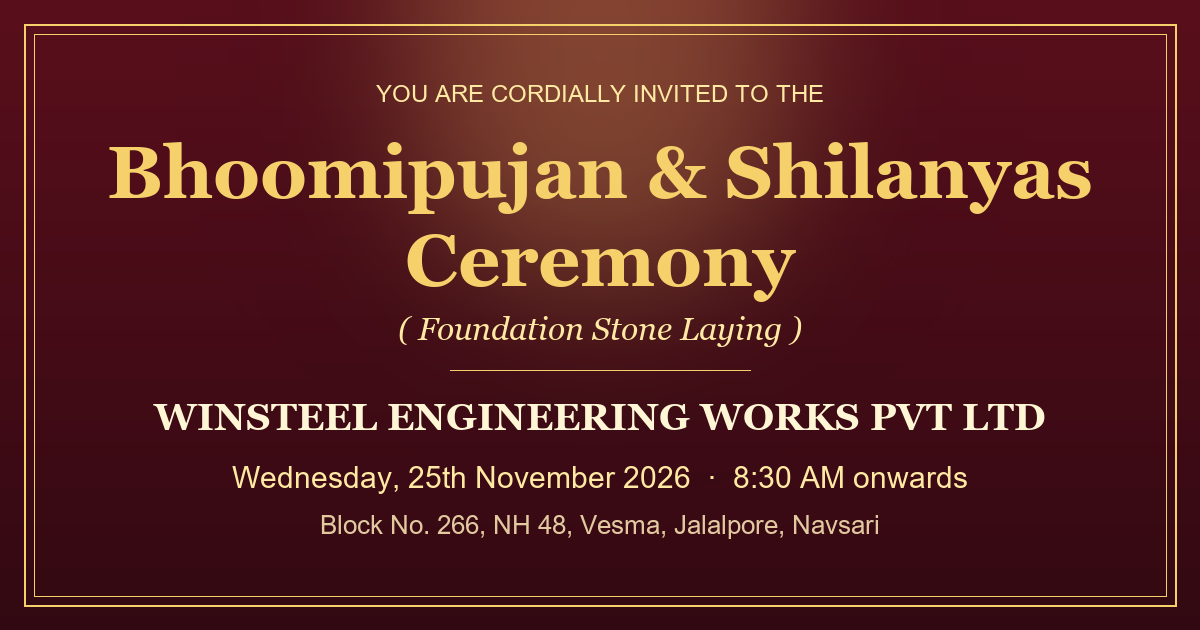
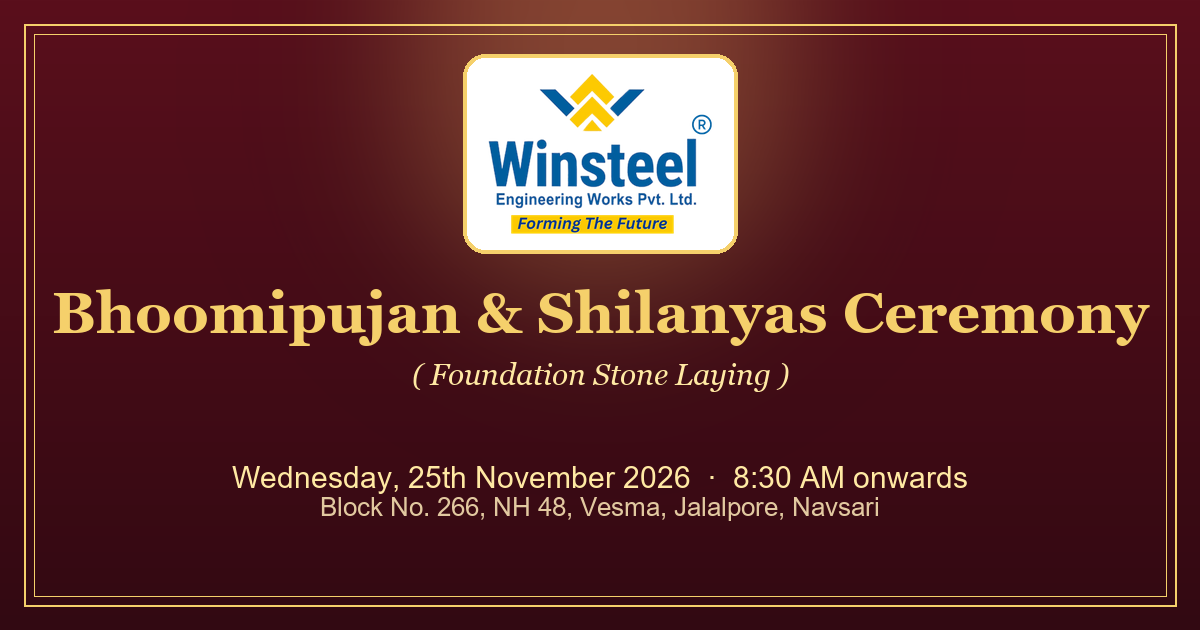
Updated code

Changed region(s): [[0.0308, 0.0603, 0.9558, 0.5429], [0.1233, 0.573, 0.8942, 0.6937], [0.2467, 0.7841, 0.74, 0.8444]]

diff --git a/css/style.css b/css/style.css
@@ -111,7 +111,7 @@ svg { display: block; }
   font-family: var(--f-deva);
   font-size: 1.5rem;
   color: var(--gold-300);
-  letter-spacing: .2em;
+  letter-spacing: .05em;
 }
 /* White plaque so the blue/yellow logo reads on maroon */
 .logo-badge {
@@ -535,7 +535,7 @@ main { position: relative; z-index: 1; }
 }
 .footer-deva { font-family: var(--f-deva); font-size: 1.6rem; color: var(--gold-300); }
 .footer-text { font-style: italic; font-size: 1.3rem; color: var(--muted); margin: .6rem auto 1.6rem; max-width: 520px; }
-.footer-badge { margin: 2.4rem auto .9rem; }
+.footer-badge { display: block; width: fit-content; margin: 2.4rem auto .9rem; }
 .footer-logo { width: 130px; height: auto; }
 .copy { font-family: var(--f-sans); font-size: .7rem; letter-spacing: .2em; text-transform: uppercase; color: var(--muted); opacity: .7; }
 
@@ -589,29 +589,153 @@ body.opened .music-btn { opacity: 1; transform: scale(1); pointer-events: auto; 
 @keyframes pinBounce { 0%, 100% { transform: translateY(0); } 50% { transform: translateY(-6px); } }
 @keyframes eq { 0%, 100% { height: 25%; } 50% { height: 100%; } }
 
-/* ---------- RESPONSIVE ---------- */
+/* ---------- QUICK BAR (mobile) ---------- */
+.quickbar { display: none; }
+
+/* ---------- GENERAL TOUCH ---------- */
+a, button { -webkit-tap-highlight-color: transparent; }
+.gate, .hero { min-height: 100dvh; }
+.deva-lines span { white-space: nowrap; }
+
+/* ---------- TABLET & PHONE ---------- */
 @media (max-width: 760px) {
+  body { background-attachment: scroll; font-size: 17px; }
+  .section { padding: 3.5rem 16px; }
+  .section-title { margin-bottom: 1.8rem; }
+
   .venue-card { grid-template-columns: 1fr; text-align: center; }
   .venue-info { align-items: center; }
   .venue-info .btn-row { justify-content: center; }
-  .map-wrap { min-height: 320px; }
+  .map-wrap { min-height: 300px; }
   .mandala-1 { width: 520px; height: 520px; margin: -260px 0 0 -260px; }
-  .section { padding: 4rem 1rem; }
+
   .info-grid { grid-template-columns: 1fr 1fr; gap: .8rem; }
   .info-grid .info:last-child { grid-column: 1 / -1; }
-  .info { padding: 1.5rem .8rem; }
+  .info { padding: 1.4rem .8rem; }
   .info p { font-size: 1.15rem; }
+
+  /* sticky quick-action bar */
+  .quickbar {
+    position: fixed; left: 10px; right: 10px;
+    bottom: calc(10px + env(safe-area-inset-bottom));
+    z-index: 65;
+    display: grid; grid-template-columns: repeat(4, 1fr);
+    padding: 6px;
+    border-radius: 20px;
+    background: rgba(42, 6, 13, .88);
+    -webkit-backdrop-filter: blur(14px); backdrop-filter: blur(14px);
+    border: 1px solid rgba(245, 208, 107, .45);
+    box-shadow: 0 14px 40px -10px rgba(0, 0, 0, .8);
+    transform: translateY(160%);
+    transition: transform .6s cubic-bezier(.2, .8, .2, 1) .9s;
+  }
+  body.opened .quickbar { transform: none; }
+  .quickbar a, .quickbar button {
+    display: flex; flex-direction: column; align-items: center; justify-content: center; gap: 3px;
+    min-height: 54px;
+    border: 0; background: none; cursor: pointer;
+    color: var(--gold-200); text-decoration: none;
+    font-family: var(--f-sans); font-size: .64rem; font-weight: 600; letter-spacing: .06em; text-transform: uppercase;
+    border-radius: 14px;
+    transition: background .2s ease;
+  }
+  .quickbar a:active, .quickbar button:active { background: rgba(245, 208, 107, .15); }
+  .quickbar svg { width: 22px; height: 22px; fill: none; stroke: currentColor; stroke-width: 1.8; stroke-linecap: round; stroke-linejoin: round; }
+  .quickbar .qb-date { color: var(--maroon-900); background: var(--gold-grad); }
+
+  body.opened { padding-bottom: calc(84px + env(safe-area-inset-bottom)); }
+  .music-btn { bottom: calc(92px + env(safe-area-inset-bottom)); right: 14px; width: 46px; height: 46px; }
+  .toast { bottom: calc(96px + env(safe-area-inset-bottom)); }
 }
+
+/* ---------- PHONE ---------- */
 @media (max-width: 480px) {
-  .deities { gap: .7rem; width: 100%; }
+  /* gate */
+  .gate-content { padding: 1.8rem 1.1rem 1.6rem; border-radius: 160px 160px 22px 22px; }
+  .gate-door { box-shadow: inset 0 0 0 6px rgba(0,0,0,.15), inset 0 0 0 8px var(--gold-500), inset 0 0 0 11px rgba(0,0,0,.25), inset 0 0 0 12px var(--gold-300); }
+  .door-pattern { inset: 18px; }
+  .gate-logo { width: 130px; }
+  .gate-title { font-size: 1.85rem; }
+  .btn-open { font-size: .75rem; }
+
+  /* hero */
+  .hero { padding: max(1.6rem, env(safe-area-inset-top)) 16px 4.5rem; }
+  .mandala-1 { width: 440px; height: 440px; margin: -220px 0 0 -220px; }
+  .mandala-2 { width: 240px; height: 240px; top: -80px; right: -100px; }
+  .deities { gap: .6rem; width: 100%; margin-top: .6rem; }
   .deity { flex: 0 1 auto; min-width: 0; }
-  .deity small { font-size: .55rem; letter-spacing: .1em; }
-  .deity-ring { width: 72px; height: 72px; padding: 8px; }
-  .deity-ring.big { width: 92px; height: 92px; }
-  .deva { font-size: .74rem; }
-  .deity-ring.big .deva { font-size: .85rem; }
-  .kalash-wrap { width: 120px; }
-  .btn { padding: .8rem 1.2rem; font-size: .72rem; }
+  .deity small { font-size: .56rem; letter-spacing: .1em; }
+  .deity-ring { width: 74px; height: 74px; padding: 8px; }
+  .deity-ring.big { width: 94px; height: 94px; }
+  .deva { font-size: .76rem; }
+  .deity-ring.big .deva { font-size: .86rem; }
+  .kalash-wrap { width: 112px; }
+  .kalash-glow { width: 170px; height: 170px; }
+  .mantra { margin: .8rem 0 1rem; }
+  .mantra-title { font-size: 1.05rem; }
+  .deva-lines { font-size: .92rem; line-height: 1.75; }
+  .deva-lines span { display: inline-block; margin: 0 .15rem; }
+  .br-desk { display: none; }
+  .hero-title { font-size: clamp(2rem, 10.5vw, 2.6rem); }
+  .hero-sub { font-size: 1.1rem; }
+
+  /* invitation card */
+  .card { padding: 2.6rem 1.3rem 2.4rem; border-radius: 18px; }
+  .card::before { inset: 8px; }
+  .card::after { inset: 13px; }
+  .corner { width: 46px; height: 46px; }
+  .invite .lead { font-size: 1.15rem; line-height: 1.65; }
+  .company { font-size: 1.2rem; }
+  .divider { margin: 1.4rem auto; }
+  .blessing { font-size: 1.05rem; }
+  .parents { font-size: 1.3rem; }
+
+  /* date */
+  .date-hero { gap: .5rem; margin-bottom: 2rem; }
+  .dh-side { font-size: .6rem; letter-spacing: .15em; padding: .55rem 0; }
+  .dh-day { font-size: 4.6rem; }
+  .countdown { gap: .45rem; margin-top: 2.2rem; }
+  .cd { width: auto; flex: 1; max-width: 84px; padding: .8rem .2rem .65rem; border-radius: 14px; }
+  .cd span { font-size: 1.7rem; }
+  .cd small { font-size: .55rem; letter-spacing: .12em; }
+
+  /* buttons: full-width, thumb friendly */
+  .btn-row { flex-direction: column; align-items: stretch; gap: .7rem; width: 100%; max-width: 340px; margin-left: auto; margin-right: auto; }
+  .venue-info .btn-row { align-items: stretch; }
+  .btn { justify-content: center; min-height: 50px; padding: .8rem 1.2rem; font-size: .78rem; }
+
+  /* hosts */
+  .hosts .host-name { font-size: 1.75rem; }
+  .wishers { flex-direction: column; align-items: center; gap: .6rem; }
+  .wishers li { min-width: 220px; font-size: 1.15rem; }
+
+  /* venue */
+  .venue-card { border-radius: 18px; }
+  .venue-info { padding: 1.8rem 1.1rem; }
+  .venue-info p { font-size: 1.15rem; }
+  .map-wrap { min-height: 280px; }
+
+  .footer { padding: 3rem 16px 2rem; }
+  .footer-text { font-size: 1.15rem; }
+}
+
+/* very small phones (≤360px) */
+@media (max-width: 360px) {
+  .deity-ring { width: 64px; height: 64px; }
+  .deity-ring.big { width: 82px; height: 82px; }
+  .deva { font-size: .66rem; }
+  .deity-ring.big .deva { font-size: .76rem; }
+  .hero-title { font-size: 1.85rem; }
+  .cd span { font-size: 1.45rem; }
+  .quickbar a, .quickbar button { font-size: .56rem; }
+}
+
+/* short screens (landscape phones / small heights) */
+@media (max-height: 640px) {
+  .gate-badge { margin: .6rem auto; }
+  .gate-logo { width: 110px; }
+  .gate-content { padding-top: 1.3rem; padding-bottom: 1.2rem; }
+  .btn-open { margin-top: .9rem; }
 }
 
 @media (prefers-reduced-motion: reduce) {

diff --git a/README.md b/README.md
@@ -33,5 +33,5 @@ vercel --prod   # production
 ```
 
 ## Customise
-- **Logo:** replace `assets/logo.svg` with the real logo. If it is a PNG, save it as `assets/logo.png` and change the 3 `logo.svg` references in `index.html`.
+- **Logo:** `assets/logo.png` is a cropped copy of `winsteel-logo.png`. The favicon and app icons (`favicon-32.png`, `icon-192.png`, `icon-512.png`, `apple-touch-icon.png`) and the button seal (`emblem.png`) use the W emblem from the logo.
 - **Text, date and time:** edit `index.html`. The countdown and calendar times are in the `EVENT` object at the top of `js/main.js`.
